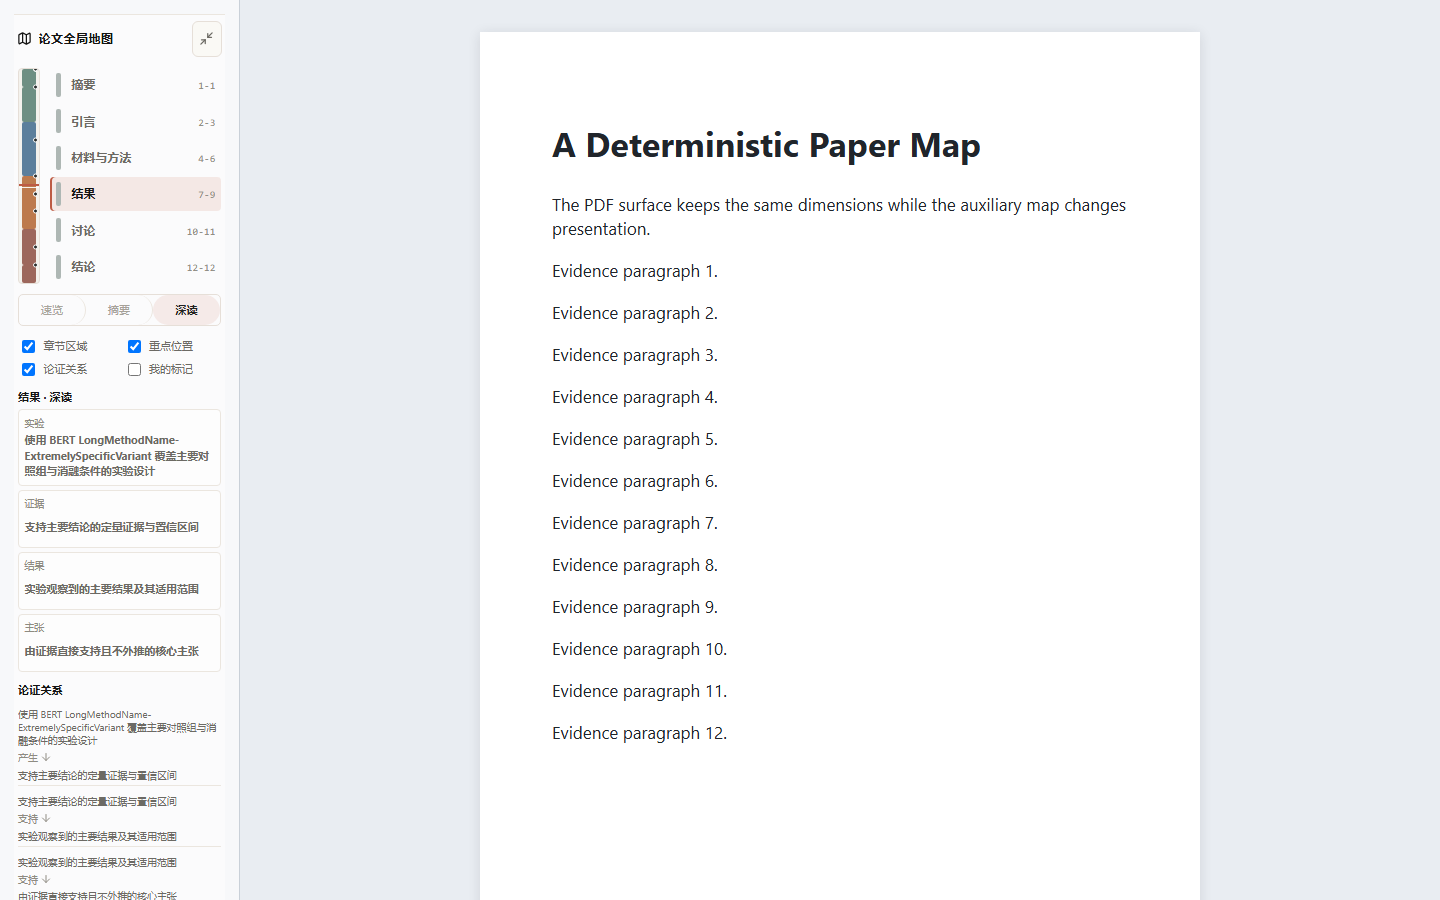
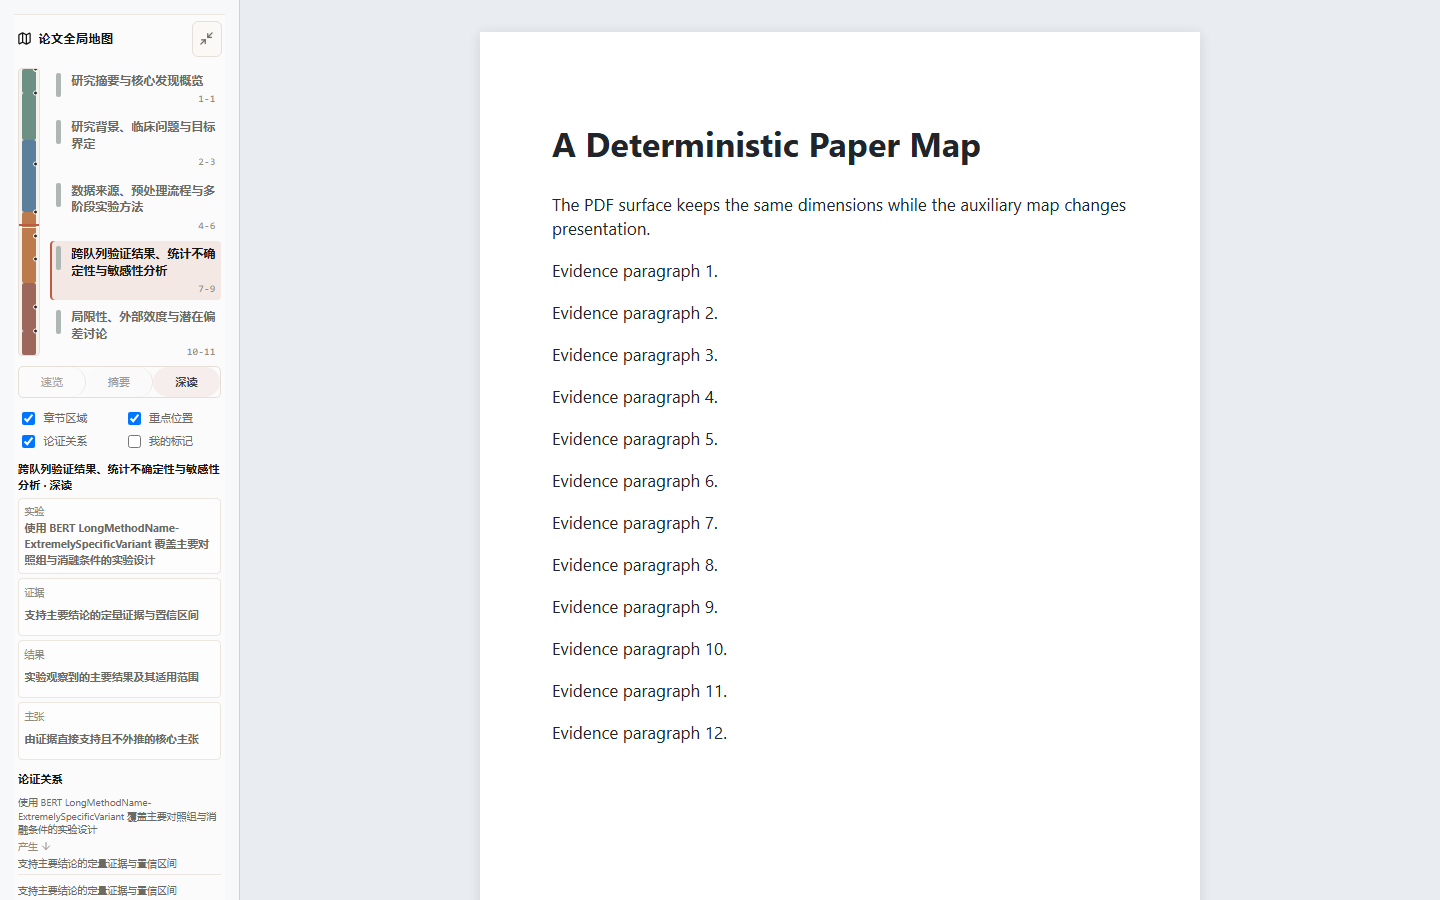
fix: improve paper map readability

Changed region(s): [[0.0, 0.1244, 0.1562, 1.0], [0.0625, 0.0622, 0.1562, 0.0933]]

diff --git a/packages/web/src/components/PdfReaderPane.vue b/packages/web/src/components/PdfReaderPane.vue
@@ -42,7 +42,6 @@ const pageList = ref<HTMLElement | null>(null);
 const pdfDoc = shallowRef<PdfDocument | null>(null);
 const pdfLoading = ref(false);
 const pdfError = ref<string | null>(null);
-const projectedRegions = ref<Array<{ lid: string; region: PdfRegion }>>([]);
 const pageEls = new Map<number, HTMLElement>();
 const canvasEls = new Map<number, HTMLCanvasElement>();
 const textLayerEls = new Map<number, HTMLElement>();
@@ -66,15 +65,6 @@ const entriesByPage = computed(() => {
   }
   return map;
 });
-const projectedByPage = computed(() => {
-  const map = new Map<number, Array<{ lid: string; region: PdfRegion }>>();
-  for (const item of projectedRegions.value) {
-    const list = map.get(item.region.pageIndex);
-    if (list) list.push(item);
-    else map.set(item.region.pageIndex, [item]);
-  }
-  return map;
-});
 const entryByLid = computed(() => new Map((props.sourceMap?.entries ?? []).map((entry) => [entry.lid, entry])));
 const activeEntry = computed(() => {
   const lid = props.activeLid ?? props.selectedLid;
@@ -94,10 +84,6 @@ const mapCapabilityLabel = computed(() => capabilityStatusLabels[mapCapability.v
 
 function pageRegions(pageIndex: number): Array<{ entry: PdfSourceMapEntry; region: PdfRegion }> {
   return entriesByPage.value.get(pageIndex) ?? [];
-}
-
-function projectedPageRegions(pageIndex: number): Array<{ lid: string; region: PdfRegion }> {
-  return projectedByPage.value.get(pageIndex) ?? [];
 }
 
 function nearestMappedLid(centerPage: number): string | null {
@@ -183,16 +169,6 @@ function pageShellStyle(page: PdfSourceMap["pages"][number]): Record<string, str
   };
 }
 
-function regionStyle(page: PdfSourceMap["pages"][number], region: PdfRegion): Record<string, string> {
-  const [x1, y1, x2, y2] = region.bbox;
-  return {
-    left: `${(x1 / page.width) * 100}%`,
-    top: `${((page.height - y2) / page.height) * 100}%`,
-    width: `${((x2 - x1) / page.width) * 100}%`,
-    height: `${((y2 - y1) / page.height) * 100}%`,
-  };
-}
-
 function pointToPdf(pageIndex: number, event: MouseEvent): { x: number; y: number } | null {
   const page = props.sourceMap?.pages.find((p) => p.pageIndex === pageIndex);
   const pageEl = pageEls.get(pageIndex);
@@ -225,14 +201,6 @@ function onPagePointer(pageIndex: number, event: MouseEvent) {
 function onPageClick(pageIndex: number, event: MouseEvent) {
   const entry = hitEntry(pageIndex, event);
   if (entry) emit("goto", entry.lid);
-}
-
-function regionClass(entry: PdfSourceMapEntry): Record<string, boolean> {
-  return {
-    active: entry.lid === props.activeLid,
-    selected: entry.lid === props.selectedLid,
-    fallback: entry.status !== "word_mapped",
-  };
 }
 
 function setPageRef(pageIndex: number, el: unknown) {
@@ -469,20 +437,6 @@ async function resolvePdfSelection() {
   }
 }
 
-async function projectActiveRange() {
-  const lid = props.activeLid ?? props.selectedLid;
-  projectedRegions.value = [];
-  if (!lid) return;
-  try {
-    const response = await api.pdfRangesProject([{ lid }]);
-    projectedRegions.value = response.projections.flatMap((projection) =>
-      projection.regions.map((region) => ({ lid: projection.lid, region })),
-    );
-  } catch {
-    projectedRegions.value = [];
-  }
-}
-
 watch(
   () => [props.pdfUrl, props.sourceMap?.config_hash] as const,
   () => {
@@ -495,7 +449,6 @@ watch(
   () => [props.activeLid, props.selectedLid, props.sourceMap?.config_hash] as const,
   () => {
     void scrollActiveIntoView();
-    void projectActiveRange();
   },
 );
 
@@ -548,21 +501,6 @@ onBeforeUnmount(() => {
         <canvas :ref="(el) => setCanvasRef(page.pageIndex, el)" class="pdf-page-canvas"></canvas>
         <div :ref="(el) => setTextLayerRef(page.pageIndex, el)" class="pdf-text-layer"></div>
         <div class="pdf-page-label">{{ page.page_label ?? page.pageIndex + 1 }}</div>
-        <div
-          v-for="{ entry, region } in pageRegions(page.pageIndex)"
-          :key="`${entry.lid}:${region.region_id}`"
-          class="pdf-region"
-          :class="regionClass(entry)"
-          :style="regionStyle(page, region)"
-          :title="entry.lid"
-        ></div>
-        <div
-          v-for="{ lid, region } in projectedPageRegions(page.pageIndex)"
-          :key="`projected:${lid}:${region.region_id}`"
-          class="pdf-region projected"
-          :style="regionStyle(page, region)"
-          :title="lid"
-        ></div>
         <p v-if="renderStates[page.pageIndex]?.error" class="pdf-page-error">
           {{ renderStates[page.pageIndex]?.error }}
         </p>
@@ -688,29 +626,6 @@ onBeforeUnmount(() => {
   color: var(--muted);
   font-size: 0.68rem;
   font-variant-numeric: tabular-nums;
-}
-.pdf-region {
-  position: absolute;
-  z-index: 2;
-  min-width: 4px;
-  min-height: 4px;
-  border: 1px solid rgba(93, 184, 166, 0.62);
-  background: rgba(93, 184, 166, 0.12);
-  padding: 0;
-  pointer-events: none;
-}
-.pdf-region.fallback {
-  border-color: rgba(204, 120, 92, 0.62);
-  background: rgba(204, 120, 92, 0.12);
-}
-.pdf-region.active,
-.pdf-region.selected,
-.pdf-region.projected {
-  border-color: var(--reader-amber);
-  background: rgba(212, 160, 23, 0.24);
-}
-.pdf-region.projected {
-  z-index: 3;
 }
 .pdf-map-foot {
   padding: 0.7rem 0.8rem;

diff --git a/packages/web/playwright/paper-minimap.spec.ts b/packages/web/playwright/paper-minimap.spec.ts
@@ -13,6 +13,29 @@ async function expectTextBlocksNotClipped(locator: Locator) {
   expect(failures).toEqual([]);
 }
 
+async function expectRegionLabelsSeparated(locator: Locator) {
+  const failures = await locator.evaluateAll((rows) => {
+    const messages: string[] = [];
+    let previousTitleBottom = Number.NEGATIVE_INFINITY;
+    rows.forEach((row, index) => {
+      const title = row.querySelector<HTMLElement>(".paper-map-region-copy strong");
+      const pages = row.querySelector<HTMLElement>(".paper-map-region-copy small");
+      if (!title || !pages) return;
+      const titleRect = title.getBoundingClientRect();
+      const pagesRect = pages.getBoundingClientRect();
+      if (titleRect.top < previousTitleBottom - 0.5) {
+        messages.push(`region ${index} title overlaps the previous title`);
+      }
+      if (pagesRect.top < titleRect.bottom - 0.5) {
+        messages.push(`region ${index} page range shares the long-title line`);
+      }
+      previousTitleBottom = titleRect.bottom;
+    });
+    return messages;
+  });
+  expect(failures).toEqual([]);
+}
+
 test("desktop expansion preserves the PDF surface", async ({ page }) => {
   await page.setViewportSize({ width: 1440, height: 900 });
   await page.goto("/paper-minimap-visual.html");
@@ -27,6 +50,7 @@ test("desktop expansion preserves the PDF surface", async ({ page }) => {
   expect(map!.x + map!.width).toBeLessThanOrEqual(after!.x);
   await expect(page.locator("[data-testid='skim-route']")).toBeVisible();
   await expect(page.locator("[data-testid='global-chain'] .paper-map-chain-row")).toHaveCount(5);
+  await expectRegionLabelsSeparated(page.locator(".paper-map-region-list button"));
 
   await page.getByRole("button", { name: "摘要", exact: true }).click();
   await expect(page.locator("[data-testid='abstract-structure']")).toBeVisible();
@@ -40,7 +64,7 @@ test("desktop expansion preserves the PDF surface", async ({ page }) => {
   await expect(page.locator("[data-testid='deep-region']")).toBeVisible();
   await expect(page.locator("[data-testid='abstract-structure']")).toHaveCount(0);
   await expect(page.locator(".paper-map-region-list button.lens-focus")).toHaveCount(1);
-  await expect(page.locator(".paper-map-shell")).toContainText("材料与方法");
+  await expect(page.locator(".paper-map-shell")).toContainText("数据来源、预处理流程与多阶段实验方法");
   await expect(page.locator(".paper-map-shell")).toContainText("BERT");
   await expect(page.locator(".paper-map-shell")).toContainText("LongMethodName-ExtremelySpecificVariant");
   await expect(page.locator(".paper-map-shell")).toContainText("覆盖主要对照组与消融条件的实验设计");

diff --git a/packages/web/src/components/PdfReaderPane.test.ts b/packages/web/src/components/PdfReaderPane.test.ts
@@ -133,6 +133,42 @@ describe("PdfReaderPane", () => {
     wrapper.unmount();
   });
 
+  it("keeps source-map geometry interactive without painting automatic PDF masks", async () => {
+    const mappedSource: PdfSourceMap = {
+      ...sourceMap,
+      entries: [{
+        lid: "1.1",
+        source_span: { start: 0, end: 10 },
+        status: "word_mapped",
+        regions: [{ region_id: "r-1", pageIndex: 0, bbox: [0, 0, 600, 800] }],
+        primary_region: { region_id: "r-1", pageIndex: 0, bbox: [0, 0, 600, 800] },
+        alignment: { confidence: 1 },
+      }],
+    };
+    const wrapper = mount(PdfReaderPane, {
+      props: {
+        sourceManifest: null,
+        sourceMap: mappedSource,
+        pdfUrl: "/api/book/pdf/original",
+        activeLid: "1.1",
+        selectedLid: null,
+      },
+    });
+    await flushPromises();
+    await flushPromises();
+
+    expect(wrapper.findAll(".pdf-region")).toHaveLength(0);
+    const page = wrapper.findAll(".pdf-page-shell")[0];
+    vi.spyOn(page.element, "getBoundingClientRect").mockReturnValue({
+      x: 0, y: 0, top: 0, bottom: 800, left: 0, right: 600,
+      width: 600, height: 800, toJSON: () => ({}),
+    });
+    await page.trigger("click", { clientX: 300, clientY: 400 });
+    expect(wrapper.emitted("goto")?.at(-1)).toEqual(["1.1"]);
+
+    wrapper.unmount();
+  });
+
   it("coalesces scrolling and resolves a cross-page center to the nearest mapped LID", async () => {
     const mappedSource: PdfSourceMap = {
       ...sourceMap,

diff --git a/packages/web/src/components/PaperMinimap.vue b/packages/web/src/components/PaperMinimap.vue
@@ -610,8 +610,9 @@ function relationLabel(relation: string): string {
 }
 .paper-map-region-list {
   display: grid;
+  grid-auto-rows: max-content;
   align-content: start;
-  gap: 0.15rem;
+  gap: 0.25rem;
   min-width: 0;
   max-height: 18rem;
   overflow-y: auto;
@@ -797,8 +798,9 @@ function relationLabel(relation: string): string {
 .paper-map-region-list button {
   display: grid;
   grid-template-columns: 8px minmax(0, 1fr);
-  align-items: center;
+  align-items: start;
   gap: 0.45rem;
+  height: auto;
   min-width: 0;
   min-height: 34px;
   border: 0;
@@ -817,26 +819,28 @@ function relationLabel(relation: string): string {
   box-shadow: inset 2px 0 var(--map-accent);
 }
 .paper-map-region-swatch {
+  align-self: start;
   width: 5px;
   height: 24px;
+  margin-top: 0.1rem;
   border-radius: 2px;
   background: #aeb7b4;
 }
 .paper-map-region-copy {
-  display: flex;
+  display: grid;
+  grid-template-columns: minmax(0, 1fr);
+  gap: 0.15rem;
   min-width: 0;
-  align-items: baseline;
-  justify-content: space-between;
-  gap: 0.4rem;
 }
 .paper-map-region-copy strong {
+  min-width: 0;
   overflow-wrap: anywhere;
   font-size: 0.75rem;
   line-height: 1.4;
   white-space: normal;
 }
 .paper-map-region-copy small {
-  flex: 0 0 auto;
+  justify-self: end;
   color: var(--stone);
   font-family: var(--mono);
   font-size: 0.65rem;

diff --git a/packages/web/src/paper-minimap-visual.ts b/packages/web/src/paper-minimap-visual.ts
@@ -100,7 +100,12 @@ const localization: PaperMinimapLocalization = {
   locale: "zh-CN",
   source: "cache",
   region_labels: Object.fromEntries([
-    "摘要", "引言", "材料与方法", "结果", "讨论", "结论",
+    "研究摘要与核心发现概览",
+    "研究背景、临床问题与目标界定",
+    "数据来源、预处理流程与多阶段实验方法",
+    "跨队列验证结果、统计不确定性与敏感性分析",
+    "局限性、外部效度与潜在偏差讨论",
+    "结论、临床意义与后续研究方向",
   ].map((label, index) => [`region:${index}`, label])),
   landmark_labels: {
     "landmark:research_question:1.1": "摘要中的研究问题与适用边界",

diff --git a/docs/代码链路.md b/docs/代码链路.md
@@ -2847,3 +2847,22 @@ otesOf 函数;删除 <aside> overlay 块。
 
 **入口**:`UNDERSTAND_BOOK_MARKETPLACE_SOURCE=adaelon/undertand-book` -> `pnpm -C apps/desktop package:windows` -> `dist/UnderstandBookSetup.exe`。
[1 lines of base64/hex data omitted]
+
+## 2026-07-13 论文地图长章节标题防重叠 [Web]
+
+**触达**:
+- `packages/web/src/components/PaperMinimap.vue:.paper-map-region-list/.paper-map-region-copy` - 章节行改为按内容自动增高,长标题与页码上下分行,色条从行顶部对齐。
+- `packages/web/src/paper-minimap-visual.ts:localization.region_labels` - 六个视觉 fixture 章节改用多行长标题,覆盖窄侧栏真实压力场景。
+- `packages/web/playwright/paper-minimap.spec.ts:expectRegionLabelsSeparated` - 浏览器几何断言相邻标题不相交且页码不与长标题共线。
+
+**入口**:展开论文地图 -> 竖直彩色地图右侧章节列表 -> 长中文章节标题自然换行。
+**测试**:`PaperMinimap.test.ts` 8 passed;Playwright desktop/mobile 2 passed;Web typecheck 与 production build 通过。
+
+## 2026-07-13 PDF 自动映射罩层移除 [Web]
+
+**触达**:
+- `packages/web/src/components/PdfReaderPane.vue:page template/active LID watcher` - 不再为全部 source-map regions 或当前大纲 LID 绘制半透明罩层,并移除仅供罩层使用的 range projection 请求;page/bbox 映射数据继续用于点击命中、滚动同步与页级跳转。
+- `packages/web/src/components/PdfReaderPane.test.ts:keeps source-map geometry interactive without painting automatic PDF masks` - 锁定有映射时罩层 DOM 为零,同时 bbox 点击仍发出原 LID。
+
+**入口**:paper reader 打开 PDF -> 原版 canvas + 透明 PDF.js text layer;大纲 goto -> page-level scroll,不绘制自动映射区域。
+**测试**:`PdfReaderPane.test.ts` 3 passed;Web full 13 files / 69 tests;Web typecheck 与 production build 通过。
